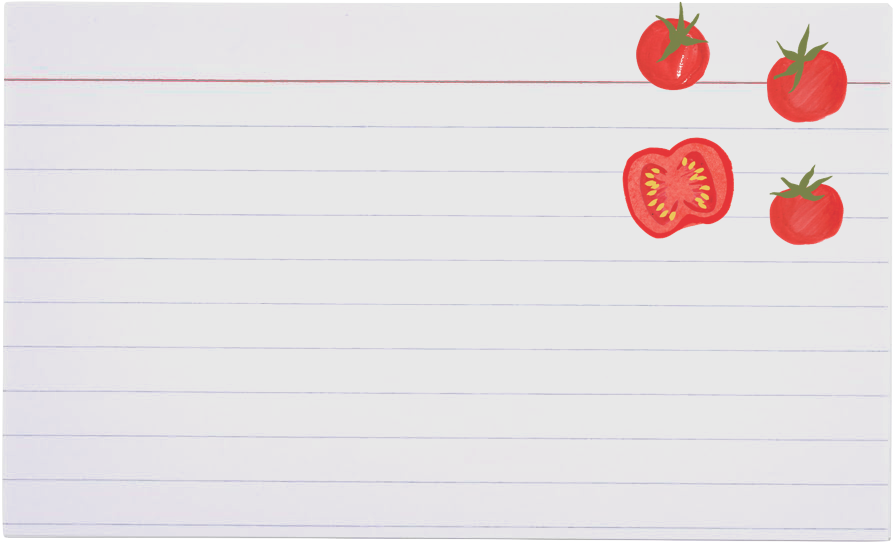
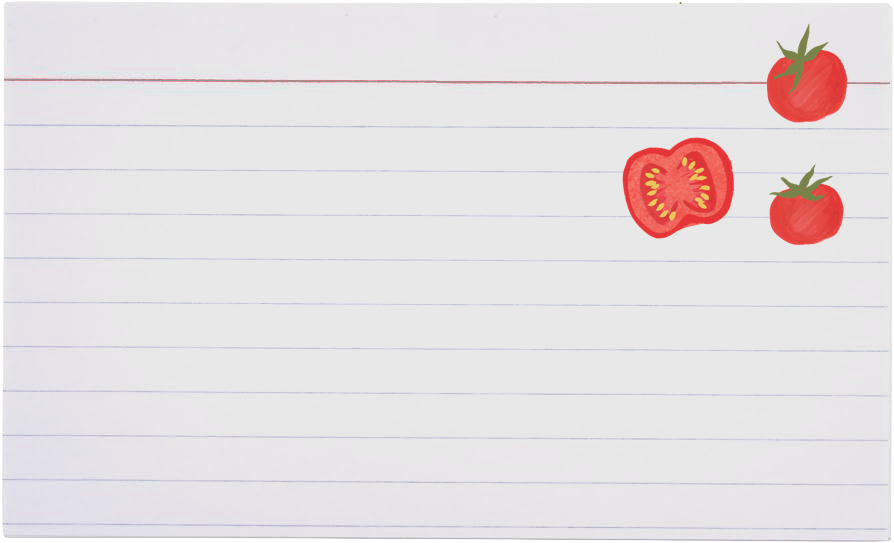
all recipe cards added, slight modifications to background

Changed region(s): [[0.4832, 0.0, 0.8154, 0.1768]]

diff --git a/sec2part1/index.html b/sec2part1/index.html
@@ -14,25 +14,90 @@
     <table class="mainimage">
         <tr>
             <td><a href="#pastacard"><img src="images/pasta.png" alt="Angel hair pasta with halved cherry tomatoes"></a></td>
-            <td><img src="images/tart.png" alt="Square puff pastry with cherry tomatoes, ricotta cheese, and pesto"></td>
-            <td><img src="images/pie.png" alt="Pizza with tomato sauce, large tomato slices, and onion slices"></td>
+            <td><a href="#tartcard"><img src="images/tart.png" alt="Square puff pastry with cherry tomatoes, ricotta cheese, and pesto"></a></td>
+            <td><a href="#piecard"><img src="images/pie.png" alt="Pizza with tomato sauce, large tomato slices, and onion slices"></a></td>
         </tr>
         <tr>
-            <td><img src="images/soup.png" alt="Bowl of tomato soup with a slice of bread"></td>
-            <td><img src="images/pasta.png" alt="Angel hair pasta with halved cherry tomatoes"></td>
-            <td><img src="images/pasta.png" alt="Angel hair pasta with halved cherry tomatoes"></td>
+            <td><a href="#soupcard"><img src="images/soup.png" alt="Bowl of tomato soup with a slice of bread"></a></td>
+            <td><a href="#capresecard"><img src="images/caprese.png" alt="Plate of caprese salad made of sliced large tomatoes and sliced large mozzarella balls arranged in an alternating pattern. The tomatoes and mozzarella are covered with a drizzle of olive oil, basalmic vinagrette, and ripped basil leaves."></a></td>
+            <td><a href="#bakedcard"><img src="images/baked.png" alt="Overhead shot of big tomatoes with their tops cut off. They have been roasted and are slightly brown."></a></td>
         </tr>
     </table>
 
     <div id="pastacard" class="card">
         <h1>tomato pasta!</h1>
-        <p> 1. cook pasta <br> 2. cut tomatoes <br> 3. add tomatoes to pasta <br> 4. eat with cheese!</p>
+        <p> 1. cook pasta 
+            <br> 2. cut tomatoes 
+            <br> 3. add tomatoes to pasta 
+            <br> 4. eat with cheese!</p>
         <div id="exit">
             <a href="#">X</a>
         </div>
     </div>
 
-    <div id="girl"><img src="images/girl.png" alt="girl sitting while holding tomatoes over her eyes"></div>
-    <div id="heirloom1"><img src="images/dark_heirloom.png" alt="top of an heirloom tomato"></div>
-    <div id="slice"><img src="images/slice.png" alt="face-on slice of a big tomato"></div>
+    <div id="tartcard" class="card">
+        <h1>tomato tart!</h1>
+        <p> 1. cut puff pastry 
+            <br> 2. put tomatoes and feta on a tray 
+            <br> 3. cover with puff pastry  
+            <br> 4. bake 
+            <br> 5. flip 
+            <br> 6. eat!</p>
+        <div id="exit">
+            <a href="#">X</a>
+        </div>
+    </div>
+
+    <div id="piecard" class="card">
+        <h1>tomato pie!</h1>
+        <p> 1. make a pizza 
+            <br> 2. don't add cheese 
+            <br> 3. cover with tomato slices
+            <br> 4. bake 
+            <br> 5. eat!
+        <div id="exit">
+            <a href="#">X</a>
+        </div>
+    </div>
+
+    <div id="soupcard" class="card">
+        <h1>tomato soup!</h1>
+        <p> 1. cook tomatoes with broth
+            <br> 2. add spices
+            <br> 3. blend
+            <br> 4. drink it up! 
+        <div id="exit">
+            <a href="#">X</a>
+        </div>
+    </div>
+
+    <div id="capresecard" class="card">
+        <h1>caprese!</h1>
+        <p> 1. slice big tomatoes
+            <br> 2. slice mozzarella balls
+            <br> 3. plate
+            <br> 4. dress with olive oil, basalmic, & basil
+            <br> 5. eat!
+        <div id="exit">
+            <a href="#">X</a>
+        </div>
+    </div>
+
+    <div id="bakedcard" class="card">
+        <h1>roasted tomatoes!</h1>
+        <p> 1. slice tops off of big tomatoes
+            <br> 2. bake
+            <br> 3. let cool
+            <br> 4. eat with a spoon!
+        <div id="exit">
+            <a href="#">X</a>
+        </div>
+    </div>
+
+    <div id="girl"><img src="images/girl.png" alt="Girl sitting while holding tomatoes over her eyes"></div>
+    <div id="heirloom1"><img src="images/dark_heirloom.png" alt="Top of an heirloom tomato"></div>
+    <div id="heirloom2"><img src="images/light_heirloom.png" alt="Top of an heirloom tomato"></div>
+    <div id="slice"><img src="images/slice.png" alt="Face-on slice of a big tomato"></div>
+    <div id="stack"><img src="images/stack.png" alt="Vertical stack of 5 large tomatoes leaning in a diagonal"></div>
+    <div id="hand"><img src="images/hand.png" alt="Wrist with a hand holding 3 medium sized tomatoes"></div>
 </section>

diff --git a/sec2part1/style.css b/sec2part1/style.css
@@ -72,20 +72,6 @@ td img{
 /* --------------------------- */
 /* --------RECIPE CARDS------- */
 /* --------------------------- */
-#pastacard{
-    background-image: url('images/card.png');
-    opacity: 0;
-    z-index:0;
-}
-
-#pastacard:target{
-    opacity:1;
-    z-index:20;
-}
-
-#pastacard:target > #exit{
-    opacity:1;
-}
 
 #exit{
     position:absolute;
@@ -120,6 +106,7 @@ td img{
     margin-top:5vh;
     font-size:6vh;
     color:rgb(59, 59, 59);
+    white-space: nowrap;
 }
 
 .card p{
@@ -128,10 +115,87 @@ td img{
     margin-left: 4vw;
     margin-top: -7vh;
     font-size: 4vh;
-    line-height:4.7vh;
+    line-height:4.55vh;
     color:rgb(59, 59, 59);
 }
 
+#pastacard{
+    background-image: url('images/card.png');
+    opacity: 0;
+    z-index:0;
+}
+#pastacard:target{
+    opacity:1;
+    z-index:20;
+}
+#pastacard:target > #exit{
+    opacity:1;
+}
+
+#tartcard{
+    background-image: url('images/card.png');
+    opacity: 0;
+    z-index:0;
+}
+#tartcard:target{
+    opacity:1;
+    z-index:20;
+}
+#tartcard:target > #exit{
+    opacity:1;
+}
+
+#piecard{
+    background-image: url('images/card.png');
+    opacity: 0;
+    z-index:0;
+}
+#piecard:target{
+    opacity:1;
+    z-index:20;
+}
+#piecard:target > #exit{
+    opacity:1;
+}
+
+#soupcard{
+    background-image: url('images/card.png');
+    opacity: 0;
+    z-index:0;
+}
+#soupcard:target{
+    opacity:1;
+    z-index:20;
+}
+#soupcard:target > #exit{
+    opacity:1;
+}
+
+#capresecard{
+    background-image: url('images/card.png');
+    opacity: 0;
+    z-index:0;
+}
+#capresecard:target{
+    opacity:1;
+    z-index:20;
+}
+#capresecard:target > #exit{
+    opacity:1;
+}
+
+#bakedcard{
+    background-image: url('images/card.png');
+    opacity: 0;
+    z-index:0;
+}
+#bakedcard:target{
+    opacity:1;
+    z-index:20;
+}
+#bakedcard:target > #exit{
+    opacity:1;
+}
 /* --------------------------- */
 /* ---------BACKGROUND-------- */
 /* --------------------------- */
@@ -152,7 +216,7 @@ td img{
     z-index: 0;
     height: 10vh;
     width:20vw;
-    bottom:40vh;
+    bottom:30vh;
     left: 0vw;
 }
 #heirloom1 img{
@@ -163,9 +227,9 @@ td img{
     position: fixed;
     z-index: 0;
     height: 10vh;
-    width:20vw;
-    bottom:40vh;
-    left: 0vw;
+    width:15vw;
+    bottom:50vh;
+    left: 30vw;
 }
 #heirloom2 img{
     width: 100%;
@@ -180,5 +244,31 @@ td img{
     right: 0vw;
 }
 #slice img{
+    width: 100%;
+}
+
+#stack{
+    position: fixed;
+    z-index: 0;
+    height: 20vh;
+    width:10vw;
+    top:58vh;
+    right: 4.5vw;
+}
+#stack img{
+    width: 100%;
+    transform:scaleX(-1) rotate(10deg);
+}
+
+#hand{
+    position: fixed;
+    transform:rotate(90deg);
+    z-index: 0;
+    height: 20vh;
+    width:20vw;
+    bottom:60vh;
+    left: 5vw;
+}
+#hand img{
     width: 100%;
 }
